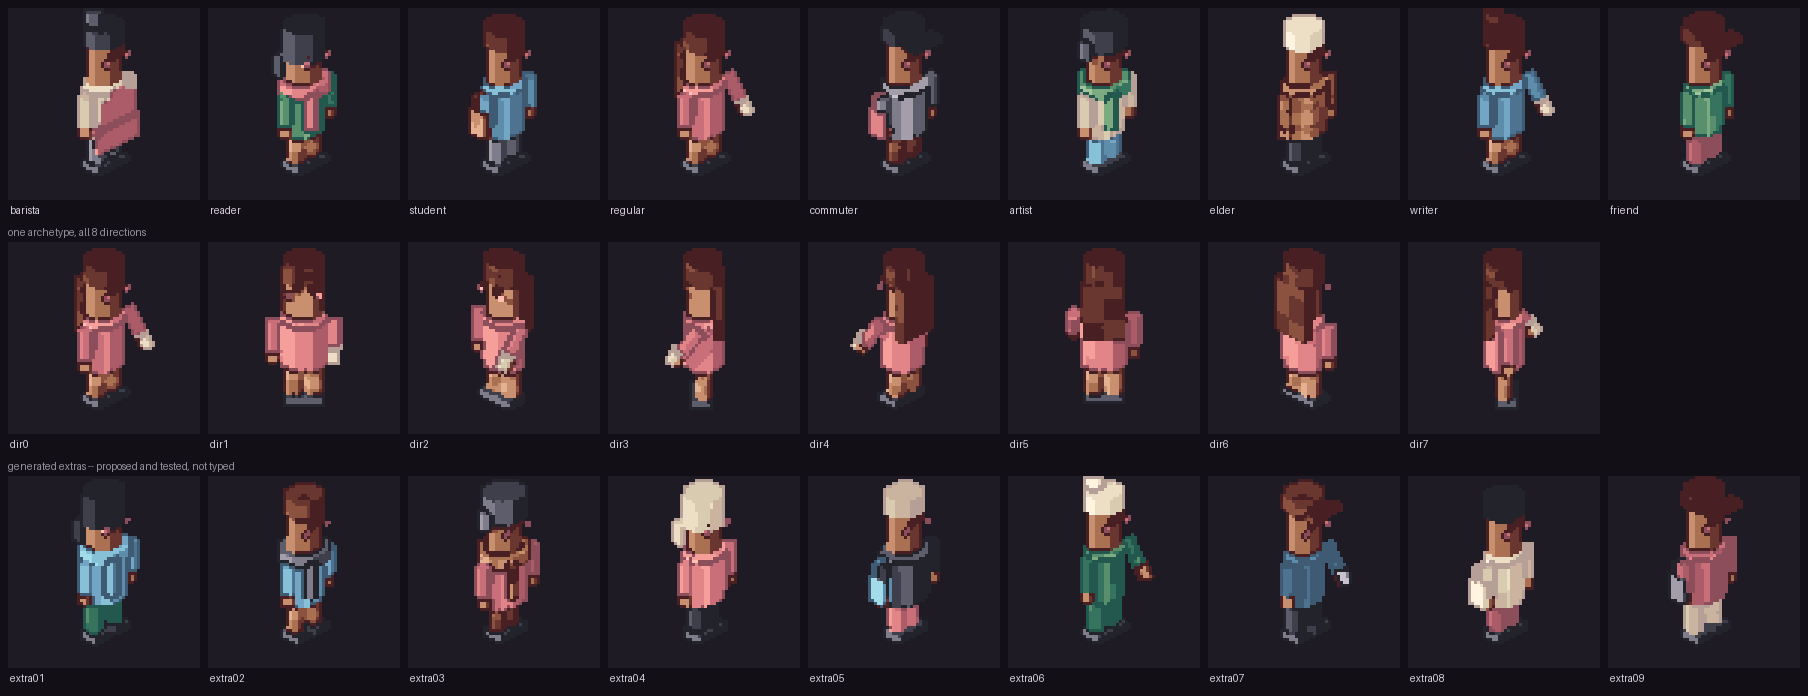
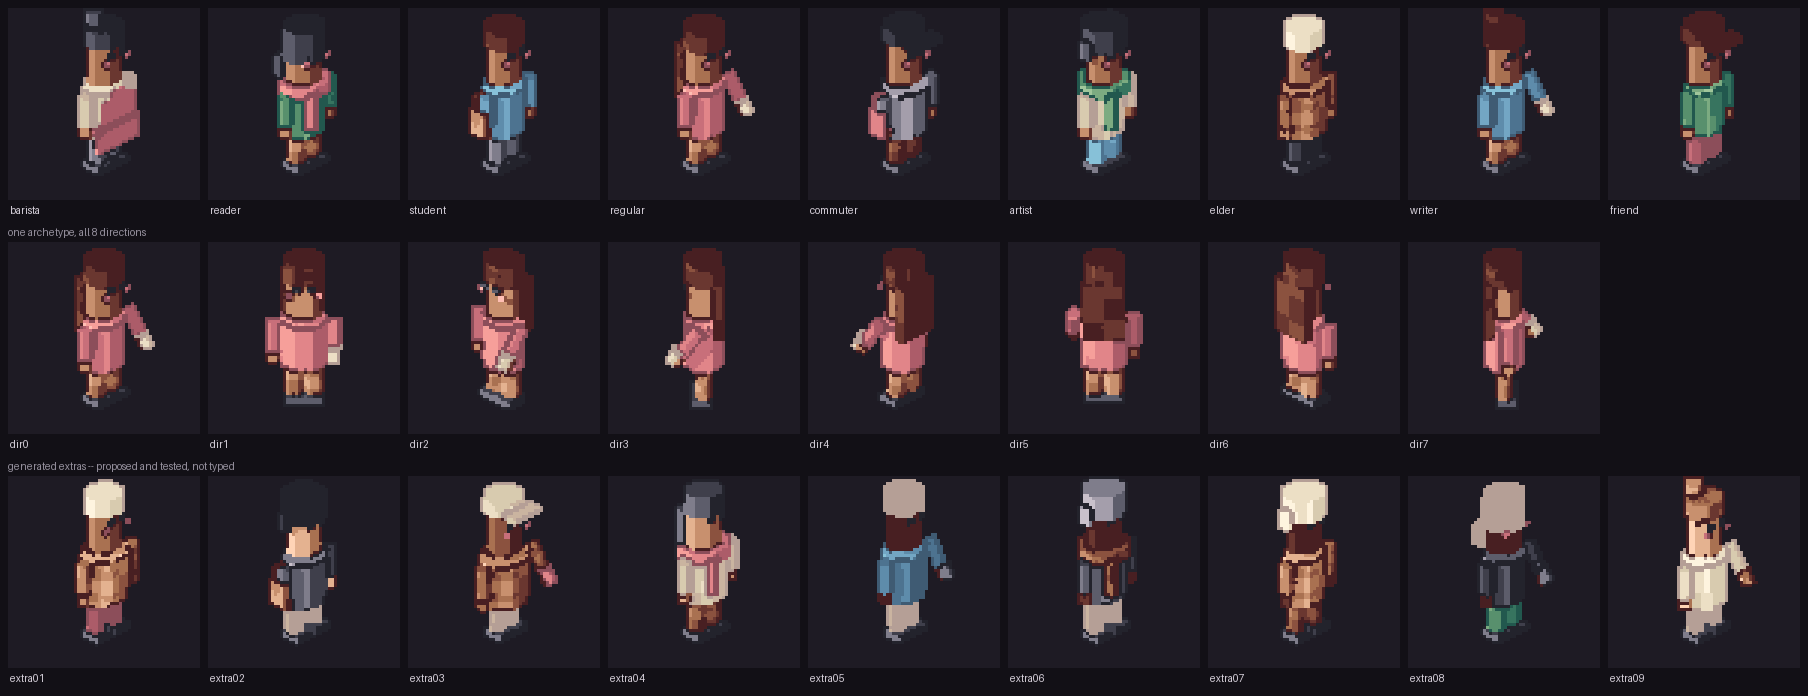
The generator had seven dimensions and two of them had one value
Over a hundred seeds: shirt 24 distinct, hair_mat 21, trousers 17, hair_style
6, accessory 4 -- and skin 1, blush 1. Neither was an art-direction decision.
Both were dataclass defaults the proposal loop never drew from.

Adding them is two lines. Why it had not been done is the finding: face() drew
the eyes as skin + "-4", and four steps below a lit mid-brown is the bottom of
wood, which is fine until the skin moves down. Rendered eye-to-face separation
across seven tones read 0.000 at the two darkest -- not faint, absent, the head
is one flat colour with a blush and no face.

No check saw it because the existing one is analytic. Eyes sit on the front
facet, which the key already shades down, so -4 from there hits the ramp floor
and so does the shaded cheek. At skin-1 the palette-step gap computes to a
comfortable 0.201 while the sprite is blank. check_contrast has compared hair
against a lit reference for eight passes and been right to; the same
arithmetic is simply wrong for a feature on the shaded side.

So a rig whose eyes are a skin offset cannot draw a dark-skinned face. The
precedent for breaking the surface's-own-ramp idiom was four lines away in the
same function -- blush has always been rose+1 on skin. Eyes move to neutral-2,
chosen over neutral-1 because that one holds its gap by getting lighter as the
skin darkens.

check_eye_legibility renders and finds the eye pixels by difference, so it
[…]

diff --git a/tools/character.py b/tools/character.py
@@ -42,6 +42,45 @@ H = 1.59
 
 SKIN = "skin"          # wood_3..6 are the flesh tones; see style_bible.yaml
 
+# Skin tones the generator may draw from, as offsets on the shaded skin step.
+# Everything from wood_0 to wood_6 is offered rather than a hand-picked subset,
+# for the reason `HAIR_MATS` gives at length: a search space pre-filtered to the
+# answer is not a search space. What makes the wide range usable is `EYE`.
+SKIN_TONES = ("skin-4", "skin-3", "skin-2", "skin-1", "skin",
+              "skin+1", "skin+2")
+
+# The eyes are NOT a tone offset on skin, and this is the one place in the
+# library where the surface's-own-ramp idiom had to be broken.
+#
+# They were `skin + "-4"` for eight passes. Four steps below a lit mid-brown is
+# the bottom of `wood`, which is fine -- until the skin itself moves down.
+# Eye-to-face separation in OKLab, rendered rather than computed, across the
+# seven tones from `skin-4` to `skin+2`:
+#
+#     skin + "-4"   0.000 0.000 0.103 0.204 0.304 0.404 0.504
+#     neutral-3     0.076 0.076 0.161 0.256 0.353 0.450 0.547
+#     neutral-2     0.196 0.196 0.196 0.256 0.353 0.450 0.547
+#     neutral-1     0.304 0.304 0.304 0.304 0.353 0.450 0.547
+#
+# Zero, at the two darkest tones: not faint, *absent*. The mechanism is
+# clamping, and it is not what an analytic check would report. Eyes sit on the
+# front facet, which the key already shades a step or two down, so `-4` from
+# there lands on the ramp floor -- and so does the shaded cheek around them.
+# At `skin-1` the palette-step gap still computes to 0.201 while the sprite
+# shows a blank face, which is why `check_eye_legibility` renders.
+#
+# So a rig whose eyes are a skin offset cannot draw a dark-skinned face. That
+# is a limitation of the drawing idiom, not of the palette, and the precedent
+# for breaking it is four lines below: blush has always been `rose+1` on a
+# skin surface. An eye is a different material from a cheek in every art style
+# there is.
+#
+# `neutral-2` over `neutral-1` because the flat 0.304 in that last row is the
+# eye clamping too -- it holds its gap by getting lighter as the skin does,
+# and a mid-grey eye on a pale face is a weaker mark than a near-black one.
+# `neutral-2` keeps the floor at 0.196 and stays dark at the light end.
+EYE = "neutral-2"
+
 # Cross-section radii. Depth is kept near width -- the whole point of the prism
 # rewrite -- rather than the 0.265 x 0.175 slab that broke the diagonals.
 TORSO_RX, TORSO_RY = 0.250, 0.210
@@ -220,7 +259,7 @@ def face(skin: str = SKIN, blush: bool = True) -> Mesh:
     ez = HEAD_Z + 0.62 * (HEAD_TOP - HEAD_Z)   # eye line, high for a cozy read
     for sx in (-0.080, 0.080):
         m.add_box((sx - 0.040, y, ez - 0.040),
-                  (sx + 0.040, y + 0.014, ez + 0.040), skin + "-4")
+                  (sx + 0.040, y + 0.014, ez + 0.040), EYE)
     if blush:
         for sx in (-0.148, 0.148):
             m.add_box((sx - 0.038, y, ez - 0.110),
@@ -640,6 +679,14 @@ def generate_spec(seed: int, ramps=None, tries: int = 60) -> CharacterSpec:
         spec = CharacterSpec(
             f"extra{seed:02d}", shirt=shirt, trousers=trousers,
             hair_style=pick(HAIR_STYLES), hair_mat=pick(HAIR_MATS),
+            # Over a hundred seeds the old generator produced one skin tone and
+            # blush on every single extra -- two dimensions with one value each,
+            # sitting unnoticed next to five that were working. Neither was a
+            # deliberate art-direction choice; both were defaults that nothing
+            # ever drew from. Skin is what `check_contrast` argues with, so
+            # varying it does real work: the hair rejection rate is no longer a
+            # constant, because the thing hair is being compared against moves.
+            skin=pick(SKIN_TONES), blush=rnd() < 0.62,
             accessory_kind=acc,
             accessory_mat=pick(GARMENT_RAMPS) + pick(("", "-1", "+1")),
             bulk=0.90 + rnd() * 0.30,
@@ -881,6 +928,61 @@ def check_cast_silhouette(roster=None,
                 out.append(f"{specs[i].name} and {specs[j].name} have "
                            f"{d:.1%} of outline between them (floor "
                            f"{floor:.0%}) -- one shape, two paint jobs")
+    return out
+
+
+# Bracketed against the rule this replaced: `skin + "-4"` measured 0.103 at
+# `skin-2`, which renders as a blank face, against `neutral-2`'s worst tone at
+# 0.196. Measured as full OKLab distance and not as lightness, because at the
+# dark end the eye and the cheek separate on hue -- a cool near-black on a warm
+# red-brown -- and a lightness-only reading called that 0.039 and would have
+# rejected art that reads perfectly well.
+MIN_EYE_GAP = 0.15
+
+
+def check_eye_legibility(ramps=None) -> list[str]:
+    """Can the eyes be seen, at every skin tone the generator may draw?
+
+    Rendered rather than computed, because the failure this was written for is
+    invisible to the analytic version. `check_contrast` compares palette steps
+    and would have reported a comfortable 0.201 at `skin-1` while the sprite
+    showed a blank face: the eyes sit on the shaded front facet, so the lambert
+    moves them and the cheek around them onto the same clamped step, and only a
+    render knows that.
+
+    The eye pixels are found by difference -- one head with a face and one
+    without -- so the check does not need to know where in the frame they
+    landed, and it keeps working if the eye line moves.
+
+    It can fail. Restore `EYE` to a skin offset and it fires on four of the
+    seven tones, which is how it was verified.
+    """
+    from render_batch import frame_all, render_sprite
+    from oklab import srgb_to_oklab
+    from pixelize import load_palette
+    ramps = ramps or load_palette()
+    out = []
+    for tone in SKIN_TONES:
+        bare = merge(head(tone))
+        span, centre = frame_all(bare)
+        _, plain = render_sprite(bare, 45.0, 48, 4, ramps,
+                                 span=span, centre=centre)
+        _, eyed = render_sprite(merge(head(tone), face(tone, blush=False)),
+                                45.0, 48, 4, ramps, span=span, centre=centre)
+        gaps = [math.dist(srgb_to_oklab(a[:3]), srgb_to_oklab(b[:3]))
+                for a, b in zip(plain, eyed)
+                if a is not None and b is not None and a != b]
+        if not gaps:
+            out.append(f"skin '{tone}': the eyes render no pixels at all")
+            continue
+        # The strongest pixel, not the mean: two dark marks on a face is a
+        # peak-contrast read, and averaging in the antialiased rim of each eye
+        # would report a failure the eye does not see.
+        gap = max(gaps)
+        if gap < MIN_EYE_GAP:
+            out.append(f"skin '{tone}': eyes are {gap:.3f} from the face "
+                       f"(need {MIN_EYE_GAP}) -- at this tone the head reads "
+                       f"as blank")
     return out
 
 

diff --git a/tools/manifest.py b/tools/manifest.py
@@ -203,6 +203,14 @@ def check(man: dict) -> int:
         from pixelize import load_palette as _lp
         for msg in _c.check_waistline(_lp()):
             errs.append(msg)
+        # And a face needs eyes at every skin tone the generator may draw, not
+        # only at the one the roster happens to use. This is the check that
+        # made `SKIN_TONES` possible: the eyes were a tone offset on skin and
+        # vanished entirely below the middle of the range, so seven of the
+        # seven tones were unusable and nobody had looked, because the roster
+        # only ever asked for one.
+        for msg in _c.check_eye_legibility():
+            errs.append(msg)
         # The generated extras have to pass everything the hand-written roster
         # does. They are proposed against exactly these predicates, so a failure
         # here means the solver has stopped consulting one of them -- which is

diff --git a/ART_CRITIQUE.md b/ART_CRITIQUE.md
@@ -2195,6 +2195,90 @@ Worth naming: the first version of that `fix` string was plausible, specific,
 and wrong, and it would have shipped as guidance. Every other floor in this
 file was bracketed by measurement while its remedy was asserted.
 
+## Two of the generator's seven dimensions had one value each
+
+An audit of `generate_spec` over a hundred seeds, counting distinct values per
+dimension:
+
+| dimension | distinct values |
+|---|---|
+| shirt | 24 |
+| hair_mat | 21 |
+| trousers | 17 |
+| hair_style | 6 |
+| accessory_kind | 4 |
+| **skin** | **1** |
+| **blush** | **1** |
+
+Neither was an art-direction decision. Both were dataclass defaults that the
+proposal loop never drew from, sitting unnoticed beside five dimensions that
+were working. A hundred generated extras, all one skin tone, all blushing.
+
+Adding them to the draw is two lines. The reason it had not been done is the
+interesting part.
+
+## The eyes could not survive it, and the check that would have said so did not exist
+
+`face()` drew the eyes as `skin + "-4"` — four steps down the surface's own
+ramp, which is the idiom `pixelize.material` exists for and which is right
+almost everywhere. Rendered heads across seven skin tones, eye-to-face
+separation in OKLab:
+
+| eye material | skin−4 | −3 | −2 | −1 | skin | +1 | +2 |
+|---|---|---|---|---|---|---|---|
+| `skin + "-4"` *(shipped)* | **0.000** | **0.000** | 0.103 | 0.204 | 0.304 | 0.404 | 0.504 |
+| `neutral-3` | 0.076 | 0.076 | 0.161 | 0.256 | 0.353 | 0.450 | 0.547 |
+| **`neutral-2`** | **0.196** | 0.196 | 0.196 | 0.256 | 0.353 | 0.450 | 0.547 |
+| `neutral-1` | 0.304 | 0.304 | 0.304 | 0.304 | 0.353 | 0.450 | 0.547 |
+
+Zero at the two darkest tones. Not faint — *absent*. The head renders as one
+flat colour with a blush and no face.
+
+The mechanism is clamping, and the reason no existing check saw it is that the
+existing check is analytic. Eyes sit on the **front** facet, which the key
+already shades a step or two down, so `-4` from there hits the ramp floor —
+and so does the shaded cheek around them. At `skin-1` the palette-step gap
+computes to a comfortable 0.201 while the sprite shows a blank face, because
+both colours clamped to the same step. `check_contrast` has been comparing
+hair against a lit reference for eight passes and been right to, because hair
+is on top of the head; the same arithmetic is simply wrong for a feature on the
+shaded side.
+
+**A rig whose eyes are a skin offset cannot draw a dark-skinned face.** That is
+a property of the drawing idiom, not of the palette, and it had been quietly
+capping the cast at one complexion. The precedent for breaking the idiom was
+four lines away in the same function: blush has always been `rose+1` on a skin
+surface. An eye is a different material from a cheek in every art style there
+is.
+
+`neutral-2` over `neutral-1` because that flat 0.304 in the last row is the eye
+clamping too — it holds its gap by getting *lighter* as the skin darkens, and a
+mid-grey eye on a pale face is a weaker mark than a near-black one. `neutral-2`
+floors at 0.196 and stays dark at the light end.
+
+### The check renders, and it measures the right distance
+
+`check_eye_legibility` finds the eye pixels by difference — one head with a
+face, one without — so it does not need to know where in the frame they landed
+and keeps working if the eye line moves. Floor at **0.15**, bracketed by the
+old rule's 0.103 at `skin-2`, which renders blank, against `neutral-2`'s worst
+tone at 0.196.
+
+It measures full OKLab distance rather than lightness, and the first version
+did not. At the dark end the eye and the cheek separate on **hue** — a cool
+near-black on a warm red-brown — and the lightness-only reading called that
+0.039 and rejected art that reads perfectly well. Nine passes of this file have
+used lightness as the readability proxy and it has been right every time until
+the one case where two colours of equal value sit next to each other.
+
+Verified in both directions: clean on the shipped rig, and two failures when
+`EYE` is put back to `neutral-3`.
+
+With that in place, skin goes into the proposal with **every** offset offered
+rather than a hand-picked safe subset — the argument `HAIR_MATS` makes at
+length — and over a hundred seeds the generator now produces 7 skin tones and
+both blush states, with zero specs failing any check.
+
 ## Still open
 
 - **Stage 3** (UniRig) is unbuilt. Stages 1 and 2 run on the local RTX 4070 —

diff --git a/README.md b/README.md
@@ -36,7 +36,7 @@ which is the point.
     python tools/review_queue.py stats            # what to automate next
 
     # the gates
-    python tools/manifest.py --check     # runs all twenty-four checks
+    python tools/manifest.py --check     # runs all twenty-five checks
     python tools/build_plan.py --focal-scan 12   # slower gate: 12 whole rooms,
                                                  # currently 0 of 12 failing
     python tools/character.py            # hair contrast, palette spread, silhouette floor
@@ -60,7 +60,7 @@ which is the point.
 The reference room is still the better room. It holds seven passes of judgement
 that no rule encodes — why the queue runs across the view rather than into it,
 why the crates go against the far walls. What the generator has is that it can
-make a different cafe, and that every one it makes clears twenty-four checks.
+make a different cafe, and that every one it makes clears twenty-five checks.
 
 ## The loop is a ratchet
 
